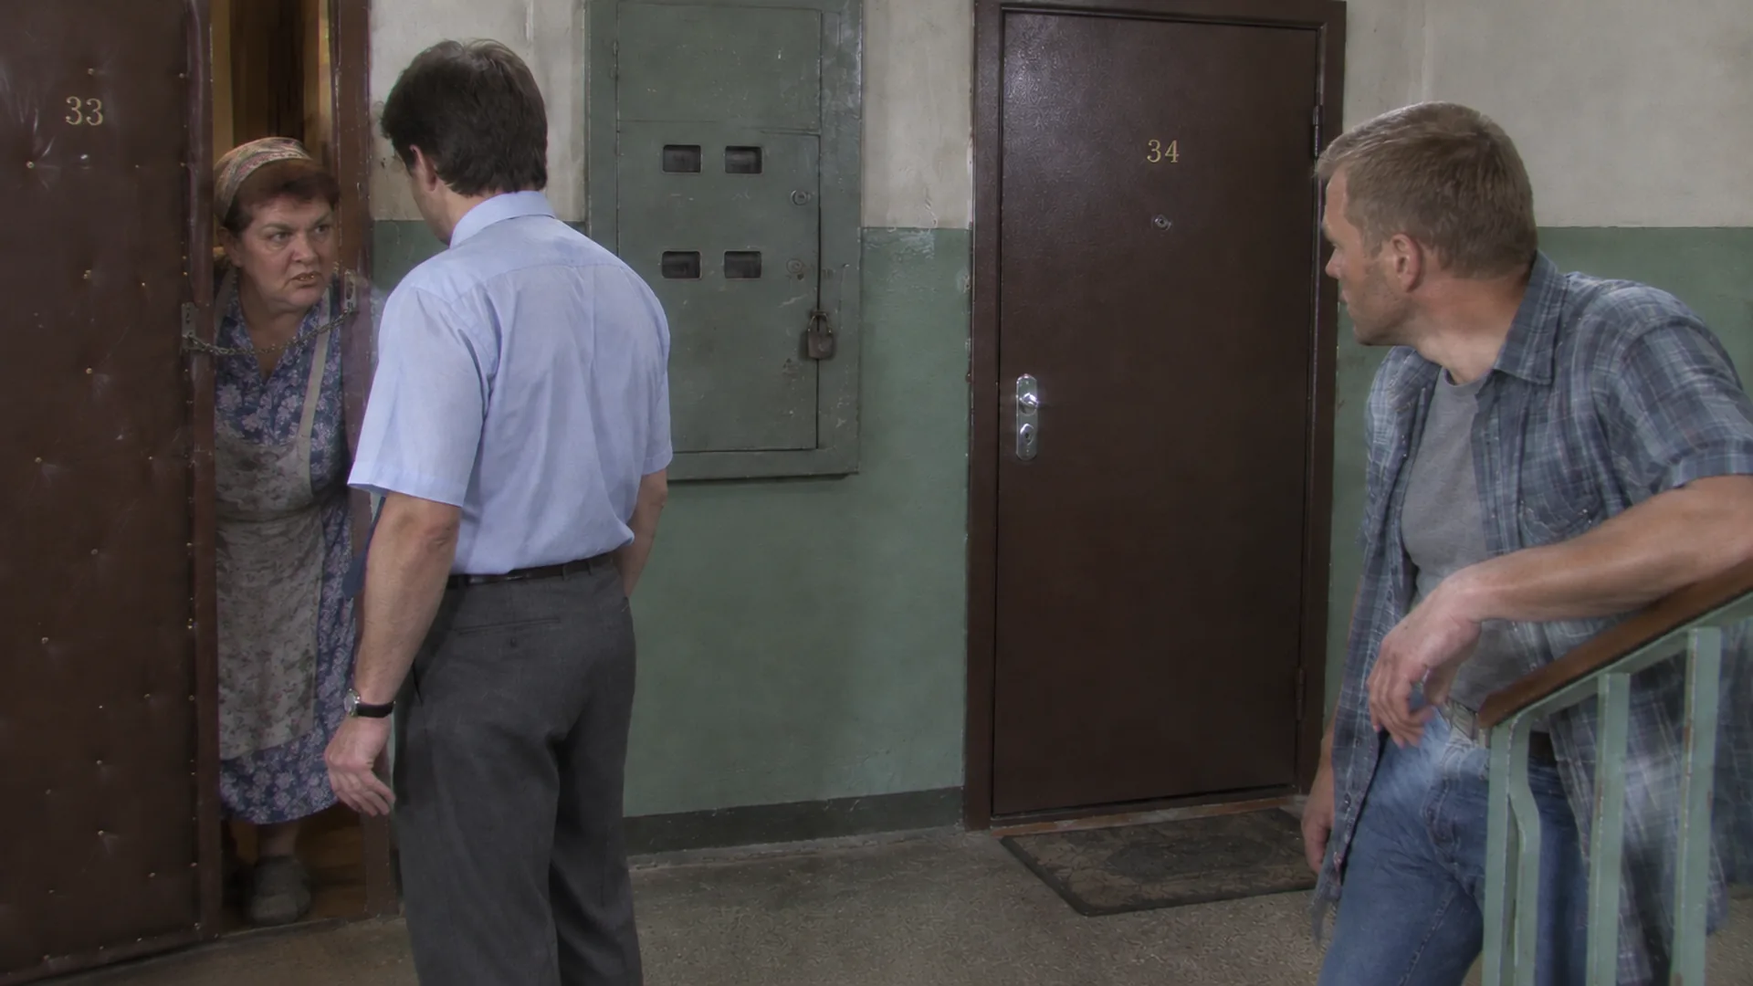
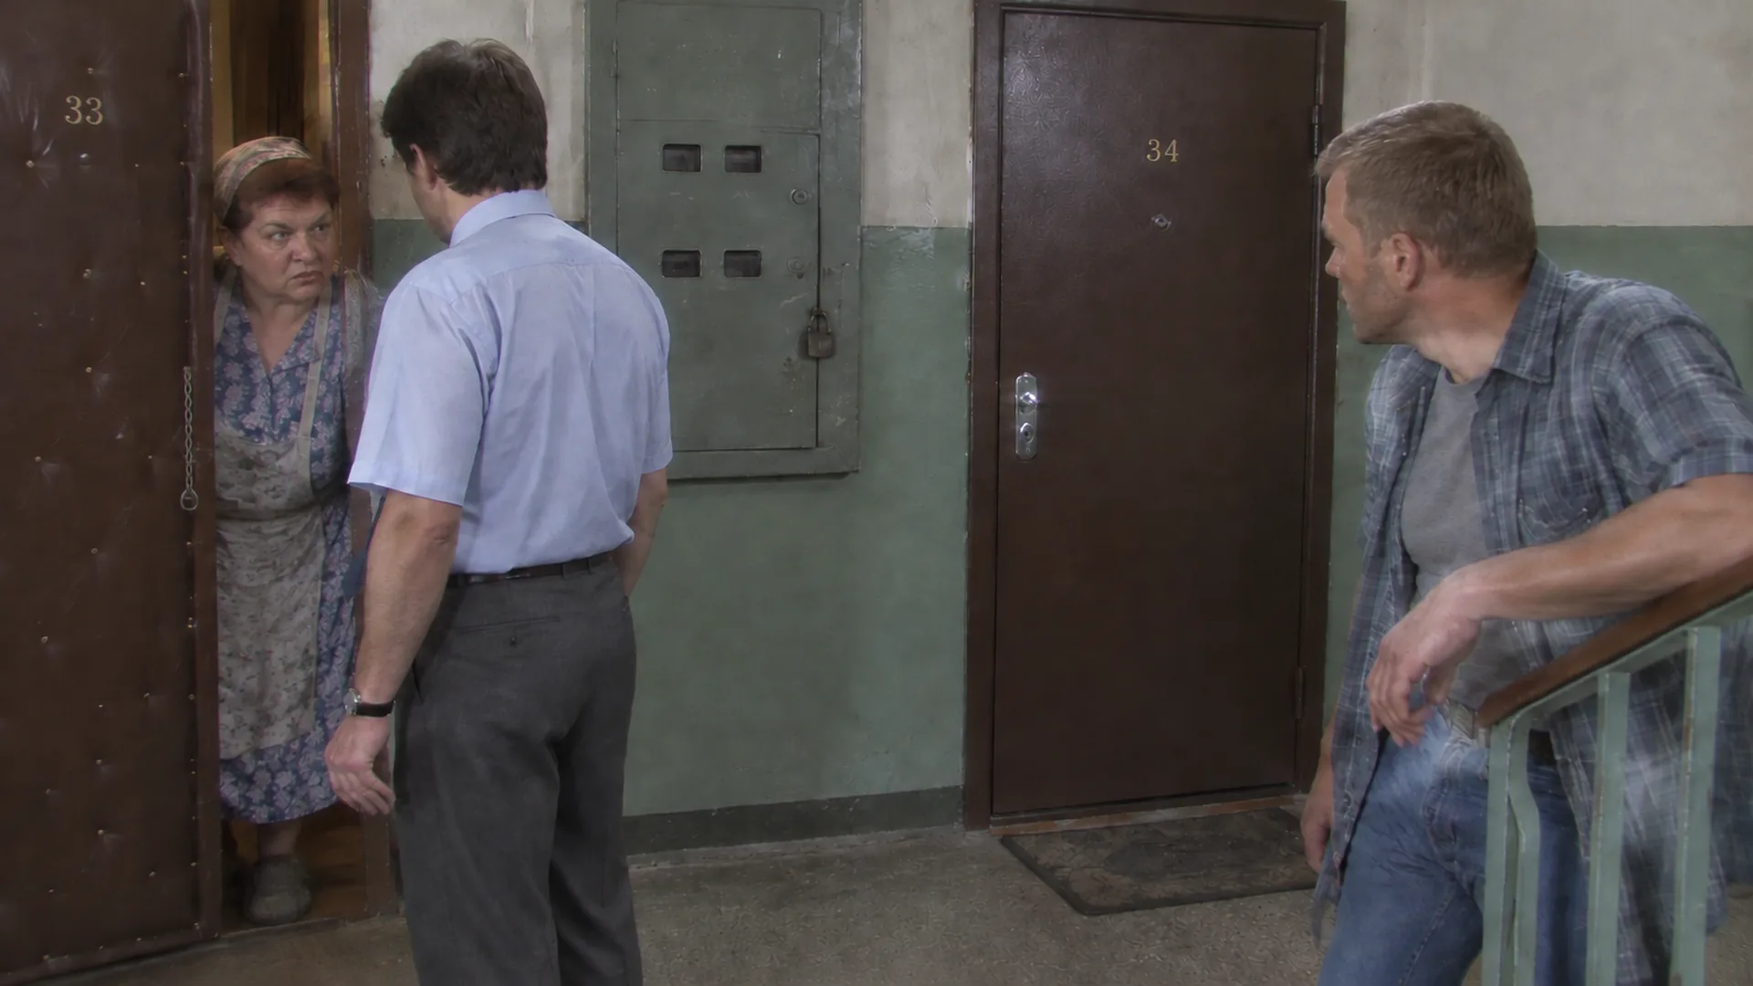
«Ход следствия»: кадр целиком на вертикальном экране; взгляд и цепочка в четырёх кадрах
- Вертикальная раскладка: высота картинки = ширина × 9/16 (было 56 % высоты экрана с обрезкой по бокам — люди
  с краёв общего плана пропадали); уведомления «Новый материал» в этой раскладке — внизу панели, над кнопками.
- Кадры: office_am_wide — вариант того же промпта, где Громов и Сайко смотрят друг на друга; office_eve_wide
  (Сайко) и notary_wide (Люда) — голова перерисована по маске, взгляд на собеседников, а не в объектив;
  landing_open_wide — цепочка снята, висит вдоль двери; реплика сцены: Галина встаёт на пороге.
- Генератор кадров: явное «смотрит на …, не в камеру» и «позу и взгляд с портрета-референса не брать»;
  открытая дверь Галины — «то же место, другой момент», а не «тот же кадр».

Changed region(s): [[0.0938, 0.275, 0.2188, 0.5194]]

diff --git a/runtime/src/ui/styles.css b/runtime/src/ui/styles.css
@@ -143,7 +143,9 @@ body {
 @media (orientation: portrait) {
   :root { --lt-bottom: 8%; }
   .vn-main {
-    grid-template-rows: minmax(0, 56%) minmax(0, 1fr);
+    /* Кадр 16:9 целиком (высота = ширина × 9/16): при 56 % высоты экрана кадр обрезался по бокам, и люди с краёв
+       общего плана пропадали. */
+    grid-template-rows: minmax(0, min(56%, 56.25vw)) minmax(0, 1fr);
   }
   .vn-main > .vn-ui {
     grid-area: 2 / 1;
@@ -1147,6 +1149,10 @@ body {
   transition: opacity 0.3s ease, transform 0.3s ease;
 }
 .vn-toast.is-in { opacity: 1; transform: none; }
+/* Портрет: картинка невысокая (16:9 по ширине) — уведомления внизу панели текста, над кнопками, а не поверх кадра. */
+@media (orientation: portrait) {
+  .vn-toasts { top: auto; bottom: calc(max(10px, env(safe-area-inset-bottom)) + 52px); }
+}
 .vn-hud {
   position: absolute;
   left: 6px;

diff --git a/runtime/tests/css_contract.test.ts b/runtime/tests/css_contract.test.ts
@@ -217,9 +217,9 @@ describe('интерфейс: документальная эстетика, mob
     expect(uiCss).toMatch(/env\(safe-area-inset-right\)/);
   });
 
-  it('портрет: картинка сверху, текст под ней; HUD внутри сцены (а не в панели текста)', () => {
+  it('портрет: картинка сверху целиком (16:9 по ширине), текст под ней; HUD внутри сцены (а не в панели текста)', () => {
     expect(uiCss).toMatch(/@media \(orientation: portrait\)/);
-    expect(uiCss).toMatch(/grid-template-rows:\s*minmax\(0,\s*56%\)\s*minmax\(0,\s*1fr\)/);
+    expect(uiCss).toMatch(/grid-template-rows:\s*minmax\(0,\s*min\(56%,\s*56\.25vw\)\)\s*minmax\(0,\s*1fr\)/);
     expect(uiCss).toMatch(/\.vn-main > \.vn-ui\s*\{\s*grid-area:\s*2 \/ 1/);
     expect(stageCss).toMatch(/\.vn-stage__hud/);
   });

diff --git a/tools/hod/shots.py b/tools/hod/shots.py
@@ -134,7 +134,7 @@ def ots(near, far, edge, extra=''):
 
 # Кабинет Громова, понедельник, утро: Сайко принёс заявления.
 shot('office_am_wide', 'hod_office_am', 'wide', 'office', MORNING, SUMMER,
-     {'sledak': 'sits behind the desk on the LEFT of the frame, three-quarter to the camera, turned right toward Sayko, one hand on an open folder with four handwritten statements, tired and attentive',
+     {'sledak': 'sits behind the desk on the LEFT of the frame, his face in three-quarter view turned right toward Sayko, his eyes on Sayko, not toward the camera, one hand on an open folder with four handwritten statements, tired and attentive',
       'oper': 'sits on the visitor\'s chair at the RIGHT end of the desk, turned left toward Gromov, leaning forward with his elbows on his knees, a wry half-smile'},
      WIDE_DOOR + ' The desk runs across the left half of the frame, the safe behind it, the window in the centre of the back wall between the two men.',
      SUN_AM, 'the desk, the green lamp (switched off), the typewriter, the telephone, the folder of statements, the safe, the window with the net curtain',
@@ -157,7 +157,7 @@ shot('office_am_phone', 'hod_office_call_am', 'medium', 'office', MORNING, SUMME
 shot('office_eve_wide', 'hod_office_eve', 'wide', 'office', EVENING, SUMMER,
      {'sledak': 'sits behind the desk on the LEFT in the same place as in the morning, reaching for a glass of tea Levina holds out to him',
       'expert': 'sits on the RIGHT corner of the desk, half-turned toward Gromov, holding out a glass of tea in a metal glass-holder, a second glass beside her',
-      'oper': 'stands at the open window in the centre of the back wall, smoking, half-turned to the room, looking at the two of them'},
+      'oper': 'stands at the open window in the centre of the back wall, smoking, half-turned to the room, his eyes on Gromov and Levina at the desk (toward the left of the frame), not toward the camera'},
      WIDE_DOOR + ' The same view as the morning: the desk across the left half, the window in the centre.',
      'low golden evening sunlight through the open window, long warm shadows across the parquet; the green desk lamp is switched on',
      'two glasses of tea in metal glass-holders, the green lamp (on), the folders, the open window',
@@ -264,12 +264,12 @@ shot('landing_chain_ots', 'hod_landing_chain', 'ots', 'landing', DAY, SUMMER,
      'summer daylight from behind the camera', 'the door chain, the padded door',
      ['shot:landing_chain_wide', 'face:neighbor', 'face:sledak'])
 shot('landing_open_wide', 'hod_landing_open', 'wide', 'landing', DAY, SUMMER,
-     {'neighbor': 'has stepped out onto the landing in front of her open door No. 33, in her house dress, apron and felt slippers, leaning toward Gromov and speaking quietly, glancing sideways at Zoya\'s new steel door',
+     {'neighbor': 'stands on the threshold of her wide-open door No. 33, the door chain unhooked and hanging loose down the door edge, in her house dress, apron and felt slippers, leaning toward Gromov and speaking quietly, glancing sideways at Zoya\'s new steel door',
       'sledak': 'stands close in front of her, LEFT of centre, seen from behind, listening',
       'oper': 'leans on the stair railing at the RIGHT edge in the foreground, now looking at Galina'},
      'The same camera as the first view of the landing: from the top step at the eye level of a standing person, 32 mm-equivalent; the lower third of the frame is kept free of faces.',
      'summer daylight from the stairwell window behind the camera', 'both doors, Galina\'s door wide open with the chain hanging loose, the railing',
-     ['shot:landing_chain_wide', 'face:neighbor', 'face:sledak', 'face:oper'])
+     ['place:landing_chain_wide', 'face:neighbor', 'face:sledak', 'face:oper'])
 shot('landing_open_ots', 'hod_landing_open', 'ots', 'landing', DAY, SUMMER,
      {'neighbor': 'stands on the landing facing the camera, one hand pressed to her chest, speaking low and frightened, her eyes flicking to the side toward the neighbouring door',
       'sledak': 'seen only from behind at the RIGHT edge'},
@@ -280,7 +280,7 @@ shot('landing_open_ots', 'hod_landing_open', 'ots', 'landing', DAY, SUMMER,
 # Нотариус Ковригин, Пресня.
 shot('notary_wide', 'hod_notary', 'wide', 'notary', DAY, SUMMER,
      {'notary': 'sits behind the desk in the centre, facing the visitors and the camera, dabbing his forehead with a handkerchief, the open register in front of him, a strained polite smile',
-      'assistant': 'sits at the small typing desk by the window on the LEFT, her hands frozen above the typewriter keys, looking sideways at the visitors',
+      'assistant': 'sits at the small typing desk by the window on the LEFT, her hands frozen above the typewriter keys, glancing over her right shoulder at Gromov\'s back (right of centre), not toward the camera',
       'sledak': 'stands in front of the desk, RIGHT of centre, seen from behind, his case folder in his hand',
       'oper': 'leans on the frame of the open door on the RIGHT, arms crossed, looking at Lyuda'},
      'The camera stands behind the visitors near the wall opposite the desk, at the eye level of a standing person, a 32 mm-equivalent field of view: the whole office with everyone in it; the lower third of the frame is kept free of faces.',
@@ -431,8 +431,8 @@ def ref_text(refs: list[str]) -> tuple[str, list[str]]:
             medias.append(f'file:{OUT}/out/{src}.png')
         else:
             look = LOOKS.get(val) or NEW_LOOKS.get(val, '')
-            lines.append(f'Reference {n} is {NAMES[val]} ({look}): keep this exact face, hair and build; ignore the clothes '
-                         f'and the background of the reference.')
+            lines.append(f'Reference {n} is {NAMES[val]} ({look}): keep this exact face, hair and build; ignore the clothes, '
+                         f'the background, the head pose and the direction of the gaze of the reference.')
             medias.append(f'file:{FACES}/{val}.webp')
     return '\n'.join(lines), medias
 

diff --git a/episodes/s1/_drafts/ep01_hod/build.py b/episodes/s1/_drafts/ep01_hod/build.py
@@ -373,7 +373,7 @@ scene('galina_closed', 'bp_places', 'hod_landing_chain', lambda: [
 ])
 scene('galina_open', 'bp_places', 'hod_landing_open', lambda: [
     show('neighbor', 'left'), show('sledak', 'center'), show('oper', 'right'),
-    inner('Цепочка падает. Галина выходит на площадку в тапках и говорит шёпотом, будто за железной дверью кто-то слушает.'),
+    inner('Цепочка падает. Галина встаёт на пороге в тапках и говорит шёпотом, будто за железной дверью кто-то слушает.'),
     say('neighbor', 'Ходил к ней один… Сергей. Недели три ходил, с бумагами помогал. Вежливый. Говорил — из газеты.'),
     say('sledak', 'Фамилию он называл?'),
     say('neighbor', 'Нет. Она его по имени-отчеству — Сергей Викторович. На «Волге» приезжал, на серой. Ставил под моими окнами, не у подъезда.'),

diff --git a/docs/production/prompts/ep01-hod-shots.md b/docs/production/prompts/ep01-hod-shots.md
@@ -5,7 +5,7 @@
 ## `office_am_wide` — wide, сет `hod_office_am`
 
 - Время: a sunny Monday morning, 9 August 1993, about 9 a.m.. Место: office.
-- Investigator Andrei Gromov: sits behind the desk on the LEFT of the frame, three-quarter to the camera, turned right toward Sayko, one hand on an open folder with four handwritten statements, tired and attentive.
+- Investigator Andrei Gromov: sits behind the desk on the LEFT of the frame, his face in three-quarter view turned right toward Sayko, his eyes on Sayko, not toward the camera, one hand on an open folder with four handwritten statements, tired and attentive.
 - Detective Viktor Sayko: sits on the visitor's chair at the RIGHT end of the desk, turned left toward Gromov, leaning forward with his elbows on his knees, a wry half-smile.
 - Камера: The camera stands in the corner by the door at the eye level of a standing person, a 32 mm-equivalent field of view: the whole room with everyone in it, people small inside the space; the lower third of the frame is kept free of faces (the text box lives there), headroom above the tallest person. The desk runs across the left half of the frame, the safe behind it, the window in the centre of the back wall between the two men.
 - Свет: bright morning sunlight through the window: sunny patches on the desk and the parquet, the rest of the room in soft shade.
@@ -38,7 +38,7 @@
 - Время: a warm August evening, 1993, about 7:40 p.m., an hour before sunset. Место: office.
 - Investigator Andrei Gromov: sits behind the desk on the LEFT in the same place as in the morning, reaching for a glass of tea Levina holds out to him.
 - forensic expert Nina Levina: sits on the RIGHT corner of the desk, half-turned toward Gromov, holding out a glass of tea in a metal glass-holder, a second glass beside her.
-- Detective Viktor Sayko: stands at the open window in the centre of the back wall, smoking, half-turned to the room, looking at the two of them.
+- Detective Viktor Sayko: stands at the open window in the centre of the back wall, smoking, half-turned to the room, his eyes on Gromov and Levina at the desk (toward the left of the frame), not toward the camera.
 - Камера: The camera stands in the corner by the door at the eye level of a standing person, a 32 mm-equivalent field of view: the whole room with everyone in it, people small inside the space; the lower third of the frame is kept free of faces (the text box lives there), headroom above the tallest person. The same view as the morning: the desk across the left half, the window in the centre.
 - Свет: low golden evening sunlight through the open window, long warm shadows across the parquet; the green desk lamp is switched on.
 - Предметы: two glasses of tea in metal glass-holders, the green lamp (on), the folders, the open window.
@@ -186,13 +186,13 @@
 ## `landing_open_wide` — wide, сет `hod_landing_open`
 
 - Время: a sunny August day, 1993, early afternoon. Место: landing.
-- Galina, the neighbour: has stepped out onto the landing in front of her open door No. 33, in her house dress, apron and felt slippers, leaning toward Gromov and speaking quietly, glancing sideways at Zoya's new steel door.
+- Galina, the neighbour: stands on the threshold of her wide-open door No. 33, the door chain unhooked and hanging loose down the door edge, in her house dress, apron and felt slippers, leaning toward Gromov and speaking quietly, glancing sideways at Zoya's new steel door.
 - Investigator Andrei Gromov: stands close in front of her, LEFT of centre, seen from behind, listening.
 - Detective Viktor Sayko: leans on the stair railing at the RIGHT edge in the foreground, now looking at Galina.
 - Камера: The same camera as the first view of the landing: from the top step at the eye level of a standing person, 32 mm-equivalent; the lower third of the frame is kept free of faces.
 - Свет: summer daylight from the stairwell window behind the camera.
 - Предметы: both doors, Galina's door wide open with the chain hanging loose, the railing.
-- Референсы: shot:landing_chain_wide, face:neighbor, face:sledak, face:oper
+- Референсы: place:landing_chain_wide, face:neighbor, face:sledak, face:oper
 
 ## `landing_open_ots` — ots, сет `hod_landing_open`
 
@@ -208,7 +208,7 @@
 
 - Время: a sunny August day, 1993, early afternoon. Место: notary.
 - notary Kovrigin: sits behind the desk in the centre, facing the visitors and the camera, dabbing his forehead with a handkerchief, the open register in front of him, a strained polite smile.
-- Lyuda, the notary's assistant: sits at the small typing desk by the window on the LEFT, her hands frozen above the typewriter keys, looking sideways at the visitors.
+- Lyuda, the notary's assistant: sits at the small typing desk by the window on the LEFT, her hands frozen above the typewriter keys, glancing over her right shoulder at Gromov's back (right of centre), not toward the camera.
 - Investigator Andrei Gromov: stands in front of the desk, RIGHT of centre, seen from behind, his case folder in his hand.
 - Detective Viktor Sayko: leans on the frame of the open door on the RIGHT, arms crossed, looking at Lyuda.
 - Камера: The camera stands behind the visitors near the wall opposite the desk, at the eye level of a standing person, a 32 mm-equivalent field of view: the whole office with everyone in it; the lower third of the frame is kept free of faces.

diff --git a/docs/season1/ep01-hod.md b/docs/season1/ep01-hod.md
@@ -81,8 +81,25 @@
 - На каждое место и время — свой сет: общий план и кадры через плечо. Монтажёр подбирает кадр под реплику. Кадры из
   одного снимка (телефон, лупа, фото внука, реестр) вынесены в короткие сцены, чтобы не всплыть раньше времени.
 - Контора без помощницы — отдельный общий план: машинка под чехлом, очередь в коридоре.
+- **Правка 2026-10-13: взгляд и цепочка.** Портреты-референсы лиц сняты с взглядом в объектив, и модель на низком
+  качестве переносила этот взгляд в кадр. Пометки о том, кто на кого смотрит, жили только в русских листах и в
+  промпт не попадали. Исправленные кадры:
+  - `office_am_wide`: взят уже сгенерированный вариант того же промпта на среднем качестве, где Громов и Сайко
+    смотрят друг на друга;
+  - `office_eve_wide` (Сайко) и `notary_wide` (Люда): голова перерисована по маске (sunburst), остальной кадр не
+    тронут, стыковка с планами через плечо сохранена;
+  - `landing_open_wide`: по маске снята цепочка — она висит вдоль края двери. Галина стоит на пороге, как и на плане
+    через плечо; реплика сцены поправлена.
+
+  В генераторе теперь у каждого стоит явное «смотрит на такого-то, не в камеру», а к портретам добавлено указание
+  не брать с них позу головы и взгляд. Исходники до правки лежат рядом с пометками `__lensgaze` и `__chain` (вне git).
 
 ## Отступления и известное
+
+- На вертикальном экране кадр показывается целиком (высота = ширина × 9/16, а не 56 % высоты экрана). Раньше кадр
+  растягивался на заполнение, и люди с краёв общего плана срезались. Картинка стала меньше, тексту больше места.
+  Уведомления «Новый материал» в этой раскладке висят внизу панели, над кнопками, а не поверх кадра. На
+  горизонтальном телефоне (около 2,2:1) кадр по-прежнему теряет примерно по 9–10 % сверху и снизу.
 
 - Шестая кнопка быстрого меню («Блокнот») отходит от решения 2026-10-11 «в панели пять кнопок». Кнопка нужна,
   потому что выводы делает игрок и факты должны быть под рукой. Если не нужна — убирается одной строкой.
